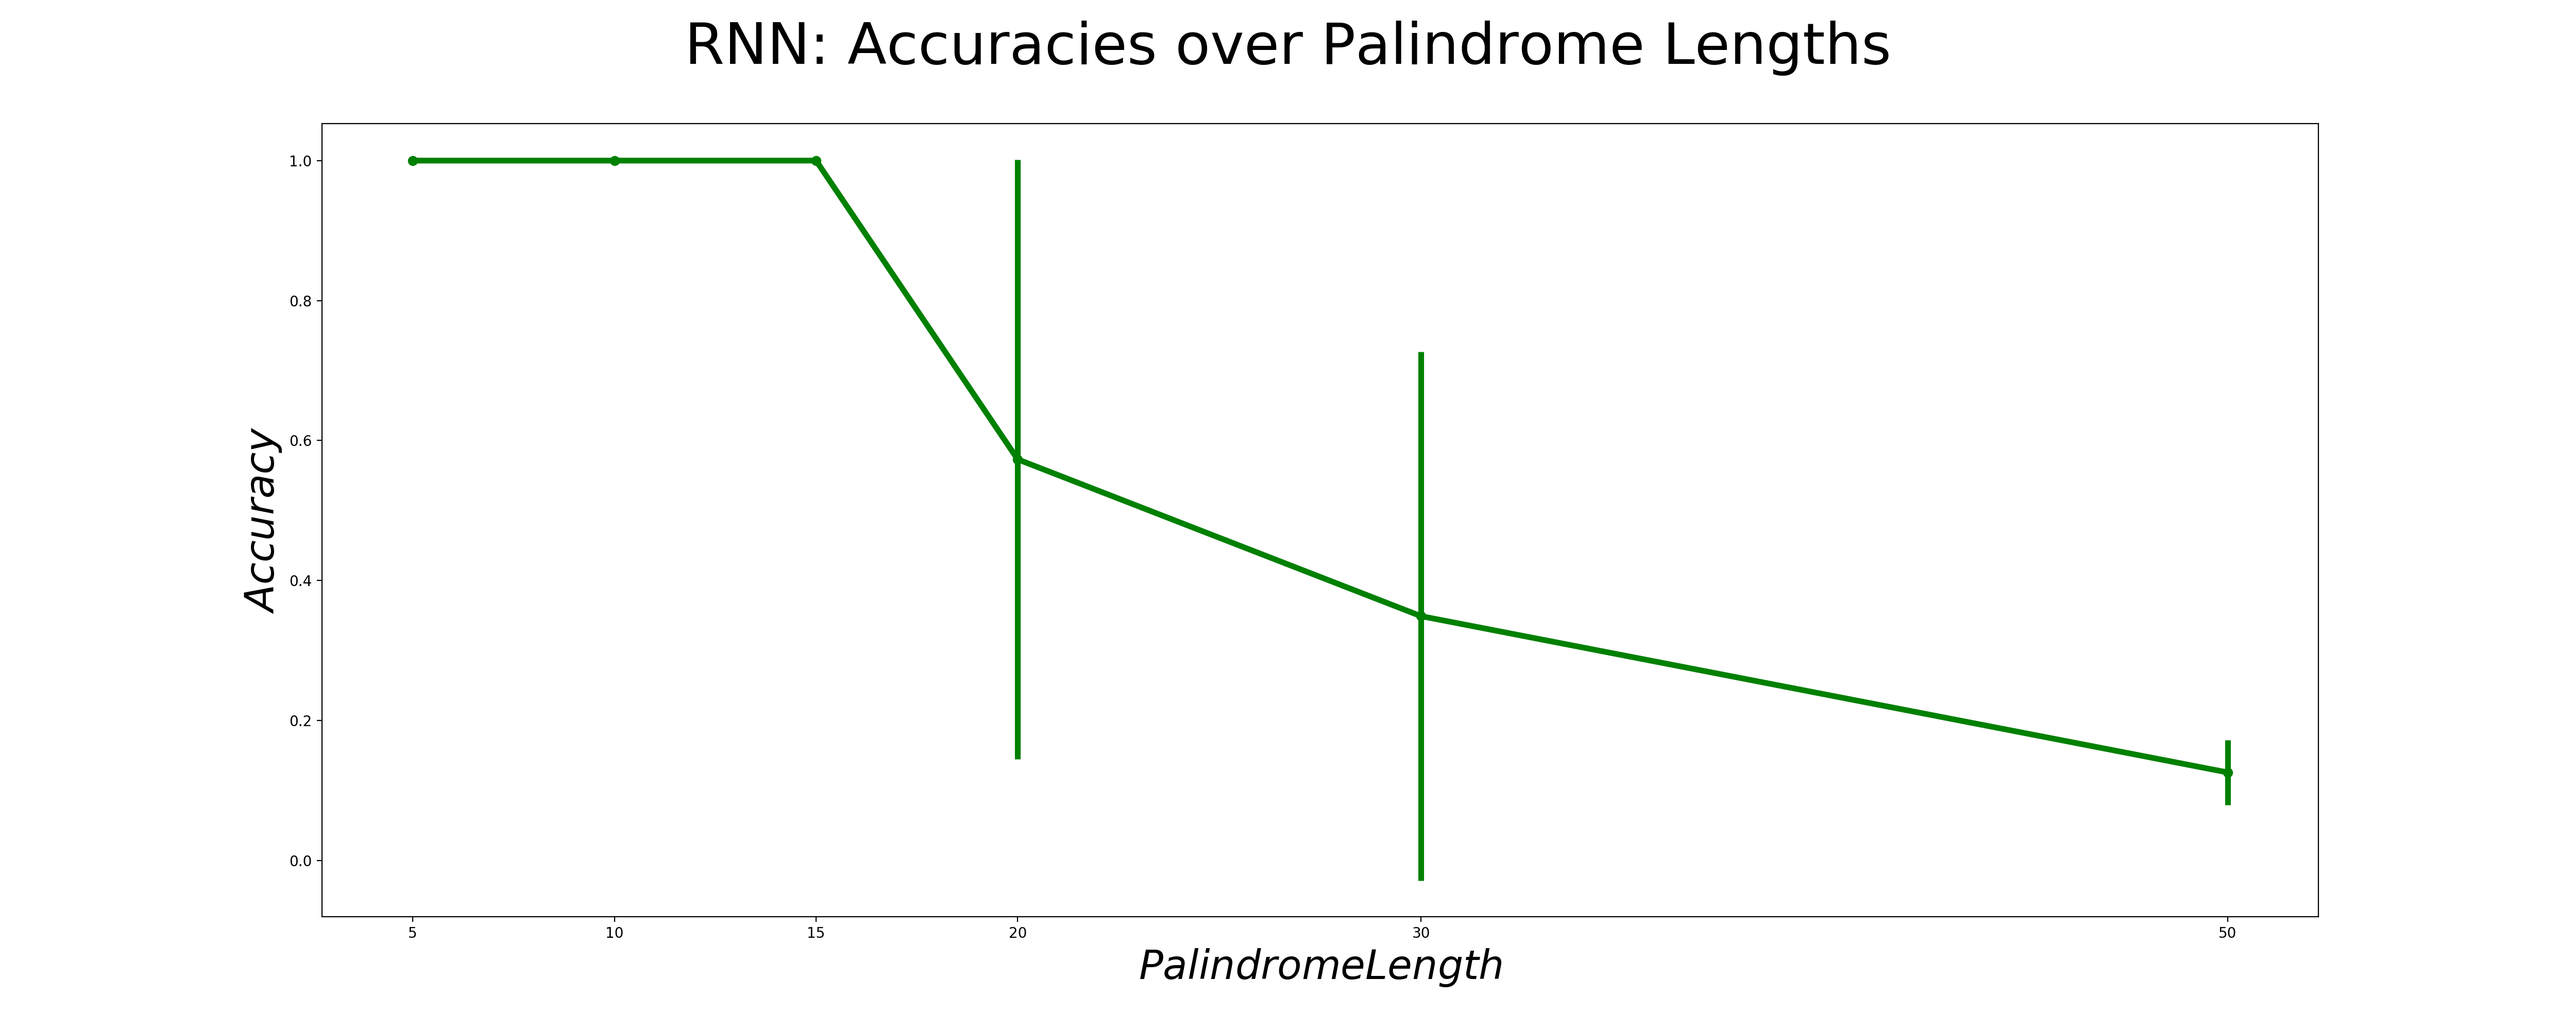
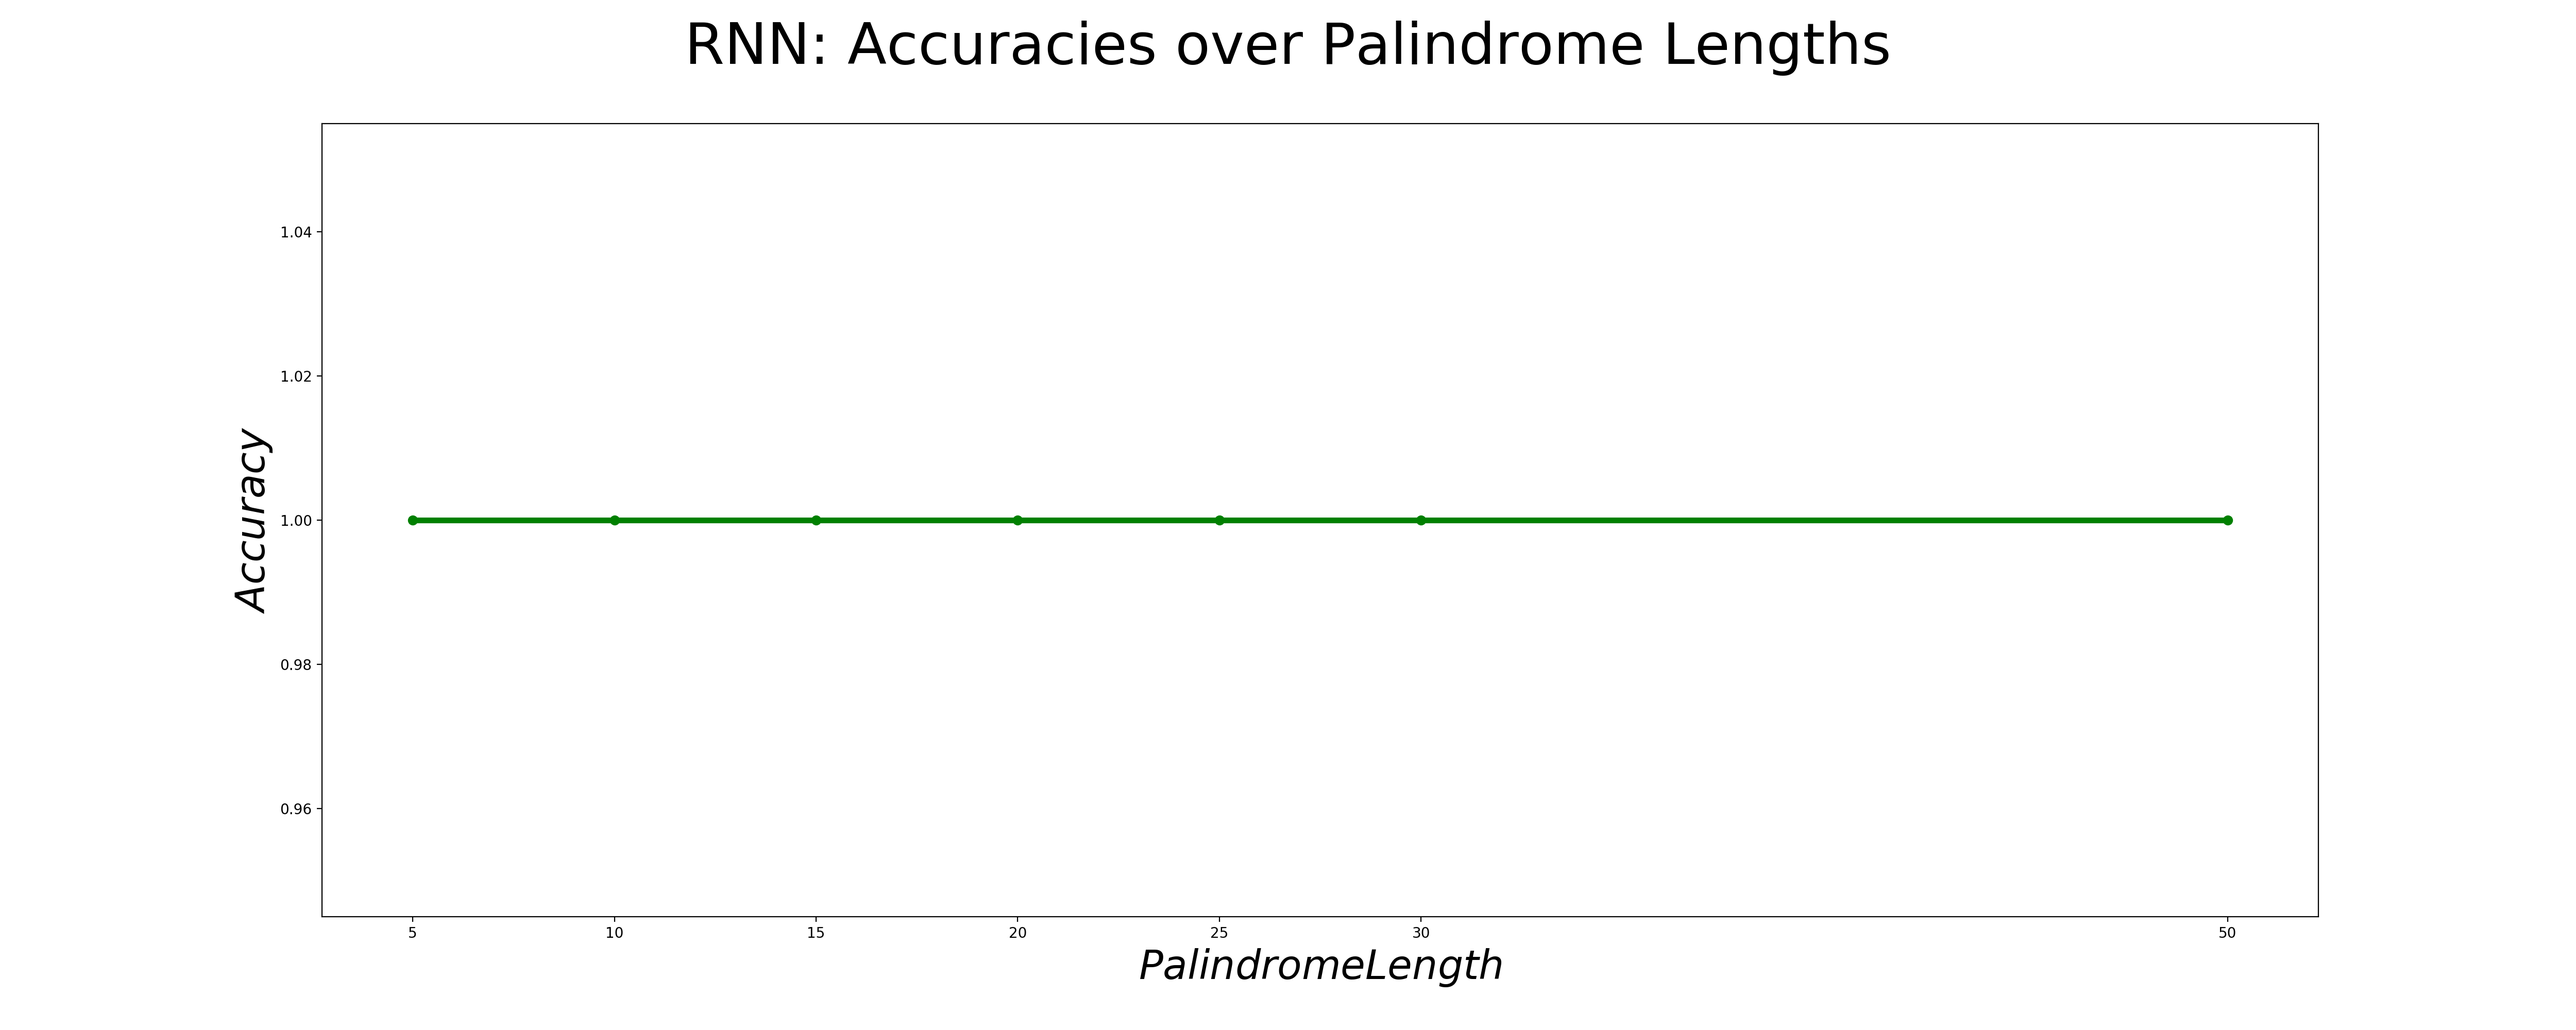
Updated one-hot representation for RNN, LSTM, further cleanups

diff --git a/assignment_2/part2/train.py b/assignment_2/part2/train.py
@@ -29,6 +29,8 @@ import torch.nn as nn
 import torch.optim as optim
 from torch.utils.data import DataLoader
 
+import torch.nn.functional as F
+
 from part2.dataset import TextDataset
 from part2.model import TextGenerationModel
 
@@ -38,9 +40,45 @@ def calc_accuracy(predictions, targets):
     return corr_pred / (targets.size(0) * targets.size(1))
 
 
+def generate_from_model(model, dataset, T=30, sampling_type="greedy", tau=1.0, device=torch.device("cpu")):
+    vocab_size = dataset.vocab_size
+    sample_char = torch.randint(vocab_size, size=(1, 1), device=device)
+
+    final_sequence = [sample_char.item()]
+
+    char_sequence = sample_char
+    for t in range(T):
+
+        # Deciding one hot or embedding => decided for embedding
+        # model_input = F.one_hot(char_sequence, vocab_size).type(torch.FloatTensor)
+        model_input = char_sequence
+
+        with torch.no_grad():
+            train_output = model.forward(model_input)[:, :, 0][..., None]
+
+        if sampling_type == "greedy":
+            _pred = torch.argmax(train_output, dim=1)
+        elif sampling_type == "use_temperature":
+            # sm = torch.softmax(-tau * train_output, dim=1).view(-1)
+            sm = torch.softmax(train_output / tau, dim=1).view(-1)
+            _pred = torch.multinomial(sm, 1)[:, None]
+        else:
+            print("Unknown sampling type")
+            break
+
+        char_sequence = torch.cat((char_sequence, _pred), dim=1)
+        final_sequence.append(_pred.item())
+
+    return dataset.convert_to_string(final_sequence)
+
+
 ################################################################################
 
 def train(config):
+    seed = 42
+    torch.manual_seed(seed)
+    np.random.seed(seed)
+
     # Initialize the device which to run the model on
     # device = torch.device(config.device)
     device = torch.device("cuda") if torch.cuda.is_available() else torch.device("cpu")
@@ -72,8 +110,6 @@ def train(config):
     # Train accuracies
     accuracies = []
 
-    print(batch_size, seq_length, vocab_size)
-
     for step, (batch_inputs, batch_targets) in enumerate(data_loader):
 
         # Only for time measurement of step through network
@@ -83,15 +119,18 @@ def train(config):
         # Add more code here ...
         #######################################################
 
-        # To onehot represetation
-        batch_inputs = torch.scatter(torch.zeros(*batch_inputs.size(), vocab_size), 2, batch_inputs[..., None], 1).to(
-            device)
+        # To onehot represetation of input
+        batch_inputs = batch_inputs.to(device)
+        # batch_inputs = F.one_hot(batch_inputs, vocab_size).type(torch.FloatTensor).to(device)
         batch_targets = batch_targets.to(device)
 
         train_output = model.forward(batch_inputs)
 
         loss = criterion(train_output, batch_targets)
         accuracy = calc_accuracy(train_output, batch_targets)
+
+        losses.append(loss)
+        accuracies.append(accuracy)
 
         optimizer.zero_grad()
         loss.backward()
@@ -110,9 +149,27 @@ def train(config):
                 accuracy, loss
             ))
 
-        if step == config.sample_every:
+        if step % config.sample_every == 0:
             # Generate some sentences by sampling from the model
-            pass
+
+            base_string = "[{}] Train Step {:04d}/{:04d}, Sampling type: {}, Temperature: {}, Text: {} \n"
+
+            # sample greedily
+            model_sample = generate_from_model(model, dataset, device=device)
+            greedy_string = base_string.format(datetime.now().strftime("%Y-%m-%d %H:%M"), step, int(config.train_steps),
+                                               "Greedy", "none", model_sample)
+
+            with open("greedy_samples.txt", "a") as text_file:
+                text_file.write(greedy_string)
+
+            for temperature in [0.5, 1.0, 2.0]:
+                model_sample = generate_from_model(model, dataset, sampling_type="use_temperature", tau=temperature,
+                                                   device=device)
+
+                temp_string = base_string.format(datetime.now().strftime("%Y-%m-%d %H:%M"), step,
+                                                 int(config.train_steps), "use_temperature", temperature, model_sample)
+                with open("temperature_samples.txt", "a") as text_file:
+                    text_file.write(temp_string)
 
         if step == config.train_steps:
             # If you receive a PyTorch data-loader error, check this bug report:

diff --git a/assignment_2/part1/train.py b/assignment_2/part1/train.py
@@ -29,6 +29,8 @@ from torch.utils.data import DataLoader
 import torch.nn as nn
 from torch import optim
 
+import torch.nn.functional as F
+
 from part1.dataset import PalindromeDataset
 from part1.vanilla_rnn import VanillaRNN
 from part1.lstm import LSTM
@@ -41,9 +43,11 @@ from torch.utils.tensorboard import SummaryWriter
 
 
 def local_experiments(config):
-    p_lengths = [5, 10, 15, 20, 25, 30]
-    learning_rates = [1e-3, 1e-3, 1e-3, 1e-4, 1e-4, 1e-4]
-    models = ["RNN", "LSTM"]
+    p_lengths = [30, 10, 15, 20, 25, 30, 50]
+    learning_rates = [1e-4, 1e-3, 1e-3, 1e-4, 1e-4, 1e-4, 1e-4]
+    models = ["LSTM"]
+
+    print(config)
 
     accuracies_over_t = [[], []]
     for i, m in enumerate(models):
@@ -55,9 +59,8 @@ def local_experiments(config):
                 np.random.seed(seed)
                 config.input_length = t
                 config.model_type = m
-                if config.model_type == "LSTM":
-                    print("LR", learning_rates[j])
-                    config.learning_rate = learning_rates[j]
+                print("LR", learning_rates[j])
+                config.learning_rate = learning_rates[j]
 
                 model = train(config)
 
@@ -94,7 +97,8 @@ def evaluate_accuracy(model, config):
 
     batch_inputs, batch_targets = next(iter(data_loader))
 
-    batch_inputs = batch_inputs.to(device)
+    batch_inputs = torch.scatter(torch.zeros(*batch_inputs.size(), config.num_classes), 2,
+                                 batch_inputs[..., None].to(torch.int64), 1).to(device)
     batch_targets = batch_targets.to(device)
 
     train_output = model.forward(batch_inputs)
@@ -108,6 +112,7 @@ def train(config):
     assert config.model_type in ('RNN', 'LSTM')
 
     # Initialize the device which to run the model on
+    # TODO: Change all of these before handing in
     device = torch.device("cuda") if torch.cuda.is_available() else torch.device("cpu")
     # device = torch.device(config.device)
 
@@ -117,11 +122,16 @@ def train(config):
     num_hidden = config.num_hidden
     num_classes = config.num_classes
 
+    print(seq_length, input_dim, num_classes, num_hidden)
+
     # Testing for convergence
     epsilon = 5e-4
-    # minimal steps the model definitely trains
+    # minimal steps the model definitely trains, LSTM trains slower so needs more interations
     if seq_length < 30:
-        min_steps = 5000 if seq_length > 15 else 1500
+        if config.model_type == 'RNN':
+            min_steps = 3000 if seq_length > 15 else 1000
+        else:
+            min_steps = 6000 if seq_length > 15 else 1500
     else:
         min_steps = config.train_steps
 
@@ -151,7 +161,9 @@ def train(config):
         # Only for time measurement of step through network
         t1 = time.time()
 
-        batch_inputs = batch_inputs.to(device)
+        batch_inputs = torch.scatter(torch.zeros(*batch_inputs.size(), num_classes), 2,
+                                     batch_inputs[..., None].to(torch.int64), 1).to(device)
+
         batch_targets = batch_targets.to(device)
 
         train_output = model.forward(batch_inputs)
@@ -222,4 +234,4 @@ if __name__ == "__main__":
 
     # Train the model
     # train(config)
-    local_experiments(config)
+    # local_experiments(config)

diff --git a/assignment_2/part1/lstm.py b/assignment_2/part1/lstm.py
@@ -51,6 +51,7 @@ class LSTM(nn.Module):
 
         for key in self.lstm_cell:
             if not key[-1] == 'b':
+                # like suggested in the lecture
                 nn.init.xavier_normal_(self.lstm_cell[key])
 
         self.h_init = torch.zeros(1, num_hidden).to(device)
@@ -63,29 +64,30 @@ class LSTM(nn.Module):
         # Implementation here ...
         _h, _c = self.h_init, self.c_init
         for t in range(self.seq_length):
-            _g = (x[:, t, None] @ self.lstm_cell["gx"] + _h @ self.lstm_cell["gh"] + self.lstm_cell["gb"]).tanh()
-            _i = (x[:, t, None] @ self.lstm_cell["ix"] + _h @ self.lstm_cell["ih"] + self.lstm_cell["ib"]).sigmoid()
-            _f = (x[:, t, None] @ self.lstm_cell["fx"] + _h @ self.lstm_cell["fh"] + self.lstm_cell["fb"]).sigmoid()
-            _o = (x[:, t, None] @ self.lstm_cell["ox"] + _h @ self.lstm_cell["oh"] + self.lstm_cell["ob"]).sigmoid()
+            _g = (x[:, t] @ self.lstm_cell["gx"] + _h @ self.lstm_cell["gh"] + self.lstm_cell["gb"]).tanh()
+            _i = (x[:, t] @ self.lstm_cell["ix"] + _h @ self.lstm_cell["ih"] + self.lstm_cell["ib"]).sigmoid()
+            _f = (x[:, t] @ self.lstm_cell["fx"] + _h @ self.lstm_cell["fh"] + self.lstm_cell["fb"]).sigmoid()
+            _o = (x[:, t] @ self.lstm_cell["ox"] + _h @ self.lstm_cell["oh"] + self.lstm_cell["ob"]).sigmoid()
 
             _c = _g * _i + _c * _f
             _h = _c.tanh() * _o
 
         return _h @ self.lstm_cell["ph"] + self.lstm_cell["pb"]
 
+    # For exercise 1.7: decided to make an own function to not pollute the forward pass
     def analyze_hs_gradients(self, x):
         # Implementation here ...
         _h, _c = torch.zeros(1, self.num_hidden, requires_grad=True).to(self.device), self.c_init
         for t in range(self.seq_length):
-            _h.retain_grad()
-            self.h_states.append((t, _h))
-
-            _g = (x[:, t, None] @ self.lstm_cell["gx"] + _h @ self.lstm_cell["gh"] + self.lstm_cell["gb"]).tanh()
-            _i = (x[:, t, None] @ self.lstm_cell["ix"] + _h @ self.lstm_cell["ih"] + self.lstm_cell["ib"]).sigmoid()
-            _f = (x[:, t, None] @ self.lstm_cell["fx"] + _h @ self.lstm_cell["fh"] + self.lstm_cell["fb"]).sigmoid()
-            _o = (x[:, t, None] @ self.lstm_cell["ox"] + _h @ self.lstm_cell["oh"] + self.lstm_cell["ob"]).sigmoid()
+            _g = (x[:, t] @ self.lstm_cell["gx"] + _h @ self.lstm_cell["gh"] + self.lstm_cell["gb"]).tanh()
+            _i = (x[:, t] @ self.lstm_cell["ix"] + _h @ self.lstm_cell["ih"] + self.lstm_cell["ib"]).sigmoid()
+            _f = (x[:, t] @ self.lstm_cell["fx"] + _h @ self.lstm_cell["fh"] + self.lstm_cell["fb"]).sigmoid()
+            _o = (x[:, t] @ self.lstm_cell["ox"] + _h @ self.lstm_cell["oh"] + self.lstm_cell["ob"]).sigmoid()
 
             _c = _g * _i + _c * _f
             _h = _c.tanh() * _o
+
+            _h.retain_grad()
+            self.h_states.append((t, _h))
 
         return _h @ self.lstm_cell["ph"] + self.lstm_cell["pb"]

diff --git a/assignment_2/part1/grads_over_time.py b/assignment_2/part1/grads_over_time.py
@@ -53,7 +53,7 @@ def analyze_grads_over_time(config, pretrain_model=False):
 
     # Initialize the dataset and data loader (note the +1)
     dataset = PalindromeDataset(config.input_length + 1)
-    data_loader = DataLoader(dataset, config.batch_size, num_workers=1)
+    data_loader = DataLoader(dataset, batch_size=1, num_workers=1)
 
     # Setup the loss and optimizer
     criterion = nn.CrossEntropyLoss()
@@ -71,15 +71,22 @@ def analyze_grads_over_time(config, pretrain_model=False):
     optimizer.zero_grad()
     loss.backward()
     gradient_norms = []
+    time_steps = []
 
     for i, (t, h) in enumerate(model.h_states[::-1]):
         _grad = h.grad
 
-        l1_norm = _grad.abs().sum().item()
-        l2_norm = _grad.abs().pow(2).sum().sqrt().item()
-
+        l2_norm = _grad.norm(2).item()
         gradient_norms.append(l2_norm)
 
-    print(gradient_norms)
-    plt.plot(gradient_norms)
+    fig = plt.figure(figsize=(25, 10), dpi=200)
+    fig.suptitle('{}: Accuracies over Palindrome Lengths'.format(m), fontsize=40)
+    ax = fig.add_subplot(1, 1, 1)
+    ax.errorbar(x=p_lengths, y=means, yerr=stds, fmt='-o', linewidth=4, color="g")
+    ax.set_xticks(p_lengths)
+
+    ax.set_xlabel('$Palindrome Length$', fontsize=28)
+    ax.set_ylabel('$Accuracy$', fontsize=28)
+
+    plt.savefig("part1/figures/{}_accuracies_over_t.png".format(m))
     plt.show()

diff --git a/assignment_2/part1/vanilla_rnn.py b/assignment_2/part1/vanilla_rnn.py
@@ -54,14 +54,14 @@ class VanillaRNN(nn.Module):
         # Implementation here ...
         _h = self.h_init
         for t in range(self.seq_length):
-            _h = (x[:, t, None] @ self.W_hx + _h @ self.W_hh + self.b_h).tanh()
+            _h = (x[:, t] @ self.W_hx + _h @ self.W_hh + self.b_h).tanh()
         return _h @ self.W_ph + self.b_p
 
     # For exercise 1.7: decided to make an own function to not pollute the forward pass
     def analyze_hs_gradients(self, x):
         _h = torch.zeros(1, self.num_hidden, requires_grad=True).to(self.device)
         for t in range(self.seq_length):
+            _h = (x[:, t] @ self.W_hx + _h @ self.W_hh + self.b_h).tanh()
             _h.retain_grad()
             self.h_states.append((t, _h))
-            _h = (x[:, t, None] @ self.W_hx + _h @ self.W_hh + self.b_h).tanh()
         return _h @ self.W_ph + self.b_p

diff --git a/assignment_2/part2/model.py b/assignment_2/part2/model.py
@@ -34,11 +34,15 @@ class TextGenerationModel(nn.Module):
         self.lstm_num_layers = lstm_num_layers
         self.device = device
 
-        self.lstm = nn.LSTM(vocabulary_size, lstm_num_hidden, lstm_num_layers, dropout=dropout_keep_prob)
+        self.char_embedding = nn.Embedding(vocabulary_size, vocabulary_size)
+
+        self.lstm = nn.LSTM(vocabulary_size, lstm_num_hidden, lstm_num_layers, dropout=dropout_keep_prob,
+                            batch_first=True)
         self.linear = nn.Linear(lstm_num_hidden, vocabulary_size)
 
     def forward(self, x):
         # Implementation here...
         # need h_c etc?
-        net_out, _ = self.lstm(x)
+        net_out, _ = self.lstm(self.char_embedding(x))
+        # Transpose because the cross entropy loss wants(minibatch, classes, features)
         return self.linear(net_out).transpose(2, 1)

diff --git a/assignment_2/start_1.py b/assignment_2/start_1.py
@@ -28,8 +28,7 @@ if __name__ == "__main__":
 
     # Train the model
     # train.train(config)
-    # train.local_experiments(config)
+    train.local_experiments(config)
 
     # analyze_grads_over_time(config)
-    analyze_grads_over_time(config, pretrain_model=True)
-
+    # analyze_grads_over_time(config, pretrain_model=True)
